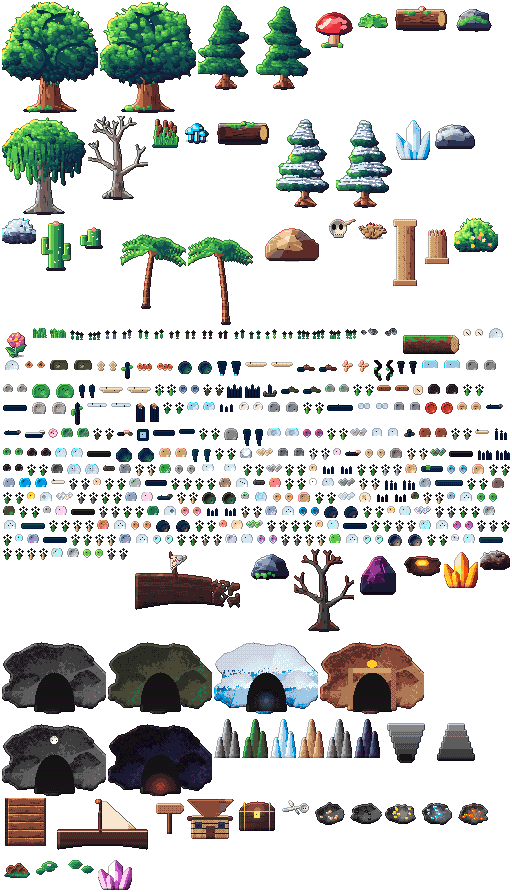
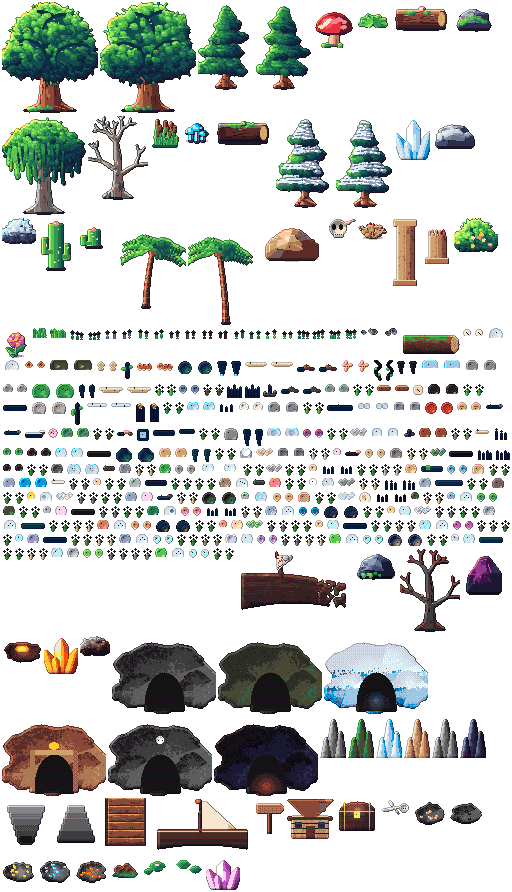
Ciclos 531-540/1000: 5 props (atlas 467) + testes baús/estradas + evento nevasca mágica + dica

Changed region(s): [[0.0, 0.6054, 1.0, 0.9989]]

diff --git a/src/game/RegionWorld.js b/src/game/RegionWorld.js
@@ -34,12 +34,12 @@ const INTERACT_RANGE = 70;
 // Objetos por terreno: [frame, peso, sólido?]. Sólido = base que bloqueia (largura, altura).
 const PROPS = {
   [T.FOREST]: { density: 0.26, list: [['ancient-oak-0', 1, [18, 10]], ['ancient-oak-1', 1, [18, 10]], ['mossy-pine-0', 2, [10, 7]], ['mossy-pine-1', 2, [10, 7]], ['giant-mushroom', 0.6, [10, 6]], ['fern', 3], ['fallen-log', 0.6, [40, 10]], ['mossy-rock', 1, [24, 10]], ['grass-tuft-0', 4], ['grass-tuft-1', 4], ['flower-tuft-0', 1.2], ['flower-tuft-1', 1.2], ['forest-flower-0', 0.8], ['forest-flower-1', 0.8], ['pebbles-0', 0.7], ['pebbles-1', 0.7], ['mushroom-cluster-0', 0.5], ['mushroom-cluster-1', 0.5], ['berry-bush-0', 0.6], ['berry-bush-1', 0.6], ['yellow-flower-0', 0.7], ['yellow-flower-1', 0.7], ['bark-scrap-0', 0.5], ['bark-scrap-1', 0.5], ['pink-flower-0', 0.6], ['pink-flower-1', 0.6], ['rotten-log', 0.4, [30, 9]], ['red-cap-0', 0.4], ['red-cap-1', 0.4], ['tan-shroom-0', 0.4], ['tan-shroom-1', 0.4], ['orange-shroom-0', 0.4], ['orange-shroom-1', 0.4], ['pink-shroom-0', 0.4], ['pink-shroom-1', 0.4], ['coral-shroom-0', 0.4], ['coral-shroom-1', 0.4], ['violet-shroom-0', 0.4], ['violet-shroom-1', 0.4], ['lilac-shroom-0', 0.4], ['lilac-shroom-1', 0.4], ['light-green-shroom-0', 0.4], ['light-green-shroom-1', 0.4], ['mossy-log', 0.35, [28, 8]], ['light-purple-flower-0', 0.5], ['light-purple-flower-1', 0.5], ['peach-forest-flower-0', 0.5], ['peach-forest-flower-1', 0.5], ['blue-forest-flower-0', 0.5], ['blue-forest-flower-1', 0.5], ['teal-forest-flower-0', 0.5], ['teal-forest-flower-1', 0.5], ['hot-pink-flower-0', 0.5], ['hot-pink-flower-1', 0.5], ['turquoise-forest-flower-0', 0.5], ['turquoise-forest-flower-1', 0.5], ['lilac-forest-flower-0', 0.5], ['lilac-forest-flower-1', 0.5], ['light-green-forest-flower-0', 0.5], ['light-green-forest-flower-1', 0.5], ['dark-bark', 0.5], ['blush-forest-flower-0', 0.5], ['blush-forest-flower-1', 0.5], ['forest-gravel', 0.6], ['forest-branch', 0.5], ['yellow-forest-bush-0', 0.5], ['yellow-forest-bush-1', 0.5], ['rotten-forest-log', 0.3, [30, 9]], ['forest-boulder', 0.3, [14, 8]]] },
-  [T.SWAMP]: { density: 0.17, list: [['willow', 1.4, [14, 9]], ['dead-tree', 1.4, [10, 7]], ['reeds', 3], ['swamp-shroom', 1.2], ['bog-log', 0.5, [40, 10]], ['mossy-rock', 0.5, [24, 10]], ['grass-tuft-0', 3], ['flower-tuft-1', 0.6], ['swamp-flower-0', 0.6], ['swamp-flower-1', 0.6], ['mud-puddle-0', 0.5], ['mud-puddle-1', 0.5], ['twisted-root-0', 0.5], ['twisted-root-1', 0.5], ['river-stone-0', 0.5, [10, 6]], ['river-stone-1', 0.5, [10, 6]], ['blue-mushroom-0', 0.5], ['blue-mushroom-1', 0.5], ['moss-pebble-0', 0.6], ['moss-pebble-1', 0.6], ['reed-0', 0.7], ['reed-1', 0.7], ['green-stone-0', 0.5, [10, 6]], ['green-stone-1', 0.5, [10, 6]], ['lilac-flower-0', 0.5], ['lilac-flower-1', 0.5], ['swamp-root', 0.5], ['swamp-pebble-0', 0.5], ['swamp-pebble-1', 0.5], ['yellow-swamp-flower-0', 0.5], ['yellow-swamp-flower-1', 0.5], ['swamp-gravel', 0.6], ['pink-swamp-flower-0', 0.5], ['pink-swamp-flower-1', 0.5], ['dark-river-stone', 0.5, [10, 6]], ['gray-shroom-0', 0.4], ['gray-shroom-1', 0.4], ['green-shroom-0', 0.4], ['green-shroom-1', 0.4], ['navy-shroom-0', 0.4], ['navy-shroom-1', 0.4], ['turquoise-shroom-0', 0.4], ['turquoise-shroom-1', 0.4], ['teal-swamp-shroom-0', 0.4], ['teal-swamp-shroom-1', 0.4], ['white-swamp-flower-0', 0.5], ['white-swamp-flower-1', 0.5], ['light-blue-shroom-0', 0.4], ['light-blue-shroom-1', 0.4], ['light-river-stone', 0.5, [10, 6]], ['blue-swamp-flower-0', 0.5], ['blue-swamp-flower-1', 0.5], ['orange-swamp-flower-0', 0.5], ['orange-swamp-flower-1', 0.5], ['teal-swamp-flower-0', 0.5], ['teal-swamp-flower-1', 0.5], ['gold-swamp-flower-0', 0.5], ['gold-swamp-flower-1', 0.5], ['dark-purple-swamp-flower-0', 0.5], ['dark-purple-swamp-flower-1', 0.5], ['coral-swamp-flower-0', 0.5], ['coral-swamp-flower-1', 0.5], ['turquoise-swamp-flower-0', 0.5], ['turquoise-swamp-flower-1', 0.5], ['lilac-swamp-flower-0', 0.5], ['lilac-swamp-flower-1', 0.5], ['green-swamp-flower-0', 0.5], ['green-swamp-flower-1', 0.5], ['muddy-swamp-log', 0.3, [30, 9]], ['white-flowered-swamp-bush-0', 0.4], ['white-flowered-swamp-bush-1', 0.4]] },
-  [T.SNOW]: { density: 0.15, list: [['snow-pine-0', 2, [10, 7]], ['snow-pine-1', 2, [10, 7]], ['ice-crystal', 1, [16, 8]], ['snow-rock', 1.4, [28, 10]], ['frozen-bush', 1.4], ['grass-tuft-1', 1.5], ['snow-flower-0', 0.8], ['snow-flower-1', 0.8], ['pebbles-0', 0.5], ['pebbles-1', 0.5], ['frozen-log', 0.5, [40, 10]], ['snow-mound-0', 0.6], ['snow-mound-1', 0.6], ['ice-shard-0', 0.6, [6, 10]], ['ice-shard-1', 0.6, [6, 10]], ['ice-spike-0', 0.6, [4, 8]], ['ice-spike-1', 0.6, [4, 8]], ['white-flower-0', 0.6], ['white-flower-1', 0.6], ['blue-ice-0', 0.5], ['blue-ice-1', 0.5], ['snow-track-0', 0.6], ['snow-track-1', 0.6], ['snow-branch', 0.4, [24, 10]], ['carved-ice', 0.4, [10, 10]], ['snow-hollow-0', 0.5], ['snow-hollow-1', 0.5], ['snow-pile-0', 0.5], ['snow-pile-1', 0.5], ['blue-snow-flower-0', 0.5], ['blue-snow-flower-1', 0.5], ['clear-ice-rock-0', 0.5, [10, 6]], ['clear-ice-rock-1', 0.5, [10, 6]], ['snow-covered-rock', 0.4, [12, 7]], ['lilac-ice-flower-0', 0.5], ['lilac-ice-flower-1', 0.5], ['ice-log', 0.35, [30, 9]], ['cracked-ice-0', 0.5], ['cracked-ice-1', 0.5], ['wind-snow-0', 0.5], ['wind-snow-1', 0.5], ['mint-ice-flower-0', 0.5], ['mint-ice-flower-1', 0.5], ['deep-blue-ice-0', 0.5], ['deep-blue-ice-1', 0.5], ['flowered-snow', 0.5], ['pale-blue-ice', 0.5], ['gray-snow-rock', 0.5, [10, 6]], ['pebbled-snow', 0.5], ['pink-ice', 0.4, [10, 6]], ['shattered-ice', 0.5], ['snow-gravel', 0.6], ['blue-flowered-snow', 0.5], ['lilac-ice', 0.4, [10, 6]], ['dark-pebbled-snow', 0.5], ['pink-flowered-snow', 0.5], ['teal-ice', 0.4, [10, 6]], ['yellow-flowered-snow', 0.5], ['green-flowered-snow', 0.5], ['coral-ice', 0.4, [10, 6]], ['turquoise-ice', 0.4, [10, 6]], ['turquoise-flowered-snow', 0.5], ['dark-lilac-ice', 0.4, [10, 6]], ['lilac-flowered-snow', 0.5], ['pale-teal-ice', 0.4, [10, 6]], ['coral-flowered-snow', 0.5], ['green-ice', 0.4, [10, 6]], ['dark-teal-ice', 0.4, [10, 6]]] },
-  [T.SAND]: { density: 0.07, list: [['cactus', 2, [12, 7]], ['cactus-small', 2, [10, 6]], ['desert-rock', 1, [40, 12]], ['skull', 0.7], ['dry-bush', 2], ['ruin-pillar', 0.3, [18, 8]], ['ruin-pillar-broken', 0.4, [18, 8]], ['grass-tuft-0', 1.5], ['dune-flower-0', 0.7], ['dune-flower-1', 0.7], ['pebbles-0', 0.6], ['pebbles-1', 0.6], ['blooming-cactus', 0.4, [12, 7]], ['tall-cactus', 0.35, [10, 12]], ['footprint-0', 0.4], ['footprint-1', 0.4], ['desert-bloom-0', 0.5], ['desert-bloom-1', 0.5], ['carved-pebble-0', 0.5], ['carved-pebble-1', 0.5], ['dry-log', 0.4, [28, 8]], ['white-desert-flower-0', 0.5], ['white-desert-flower-1', 0.5], ['desert-stone-0', 0.5, [10, 6]], ['desert-stone-1', 0.5, [10, 6]], ['pink-dune-flower-0', 0.5], ['pink-dune-flower-1', 0.5], ['lilac-dune-flower-0', 0.5], ['lilac-dune-flower-1', 0.5], ['red-dune-flower-0', 0.5], ['red-dune-flower-1', 0.5], ['white-dune-flower-0', 0.5], ['white-dune-flower-1', 0.5], ['magenta-dune-flower-0', 0.5], ['magenta-dune-flower-1', 0.5], ['coral-dune-flower-0', 0.5], ['coral-dune-flower-1', 0.5], ['turquoise-dune-flower-0', 0.5], ['turquoise-dune-flower-1', 0.5], ['light-coral-dune-flower-0', 0.5], ['light-coral-dune-flower-1', 0.5], ['sea-green-dune-flower-0', 0.5], ['sea-green-dune-flower-1', 0.5], ['lilac-dune-stone', 0.5, [10, 6]], ['flowered-dune-bush-0', 0.4], ['flowered-dune-bush-1', 0.4]] },
+  [T.SWAMP]: { density: 0.17, list: [['willow', 1.4, [14, 9]], ['dead-tree', 1.4, [10, 7]], ['reeds', 3], ['swamp-shroom', 1.2], ['bog-log', 0.5, [40, 10]], ['mossy-rock', 0.5, [24, 10]], ['grass-tuft-0', 3], ['flower-tuft-1', 0.6], ['swamp-flower-0', 0.6], ['swamp-flower-1', 0.6], ['mud-puddle-0', 0.5], ['mud-puddle-1', 0.5], ['twisted-root-0', 0.5], ['twisted-root-1', 0.5], ['river-stone-0', 0.5, [10, 6]], ['river-stone-1', 0.5, [10, 6]], ['blue-mushroom-0', 0.5], ['blue-mushroom-1', 0.5], ['moss-pebble-0', 0.6], ['moss-pebble-1', 0.6], ['reed-0', 0.7], ['reed-1', 0.7], ['green-stone-0', 0.5, [10, 6]], ['green-stone-1', 0.5, [10, 6]], ['lilac-flower-0', 0.5], ['lilac-flower-1', 0.5], ['swamp-root', 0.5], ['swamp-pebble-0', 0.5], ['swamp-pebble-1', 0.5], ['yellow-swamp-flower-0', 0.5], ['yellow-swamp-flower-1', 0.5], ['swamp-gravel', 0.6], ['pink-swamp-flower-0', 0.5], ['pink-swamp-flower-1', 0.5], ['dark-river-stone', 0.5, [10, 6]], ['gray-shroom-0', 0.4], ['gray-shroom-1', 0.4], ['green-shroom-0', 0.4], ['green-shroom-1', 0.4], ['navy-shroom-0', 0.4], ['navy-shroom-1', 0.4], ['turquoise-shroom-0', 0.4], ['turquoise-shroom-1', 0.4], ['teal-swamp-shroom-0', 0.4], ['teal-swamp-shroom-1', 0.4], ['sea-green-swamp-shroom-0', 0.4], ['sea-green-swamp-shroom-1', 0.4], ['white-swamp-flower-0', 0.5], ['white-swamp-flower-1', 0.5], ['light-blue-shroom-0', 0.4], ['light-blue-shroom-1', 0.4], ['light-river-stone', 0.5, [10, 6]], ['blue-swamp-flower-0', 0.5], ['blue-swamp-flower-1', 0.5], ['orange-swamp-flower-0', 0.5], ['orange-swamp-flower-1', 0.5], ['teal-swamp-flower-0', 0.5], ['teal-swamp-flower-1', 0.5], ['gold-swamp-flower-0', 0.5], ['gold-swamp-flower-1', 0.5], ['dark-purple-swamp-flower-0', 0.5], ['dark-purple-swamp-flower-1', 0.5], ['coral-swamp-flower-0', 0.5], ['coral-swamp-flower-1', 0.5], ['turquoise-swamp-flower-0', 0.5], ['turquoise-swamp-flower-1', 0.5], ['lilac-swamp-flower-0', 0.5], ['lilac-swamp-flower-1', 0.5], ['green-swamp-flower-0', 0.5], ['green-swamp-flower-1', 0.5], ['muddy-swamp-log', 0.3, [30, 9]], ['white-flowered-swamp-bush-0', 0.4], ['white-flowered-swamp-bush-1', 0.4]] },
+  [T.SNOW]: { density: 0.15, list: [['snow-pine-0', 2, [10, 7]], ['snow-pine-1', 2, [10, 7]], ['ice-crystal', 1, [16, 8]], ['snow-rock', 1.4, [28, 10]], ['frozen-bush', 1.4], ['grass-tuft-1', 1.5], ['snow-flower-0', 0.8], ['snow-flower-1', 0.8], ['pebbles-0', 0.5], ['pebbles-1', 0.5], ['frozen-log', 0.5, [40, 10]], ['snow-mound-0', 0.6], ['snow-mound-1', 0.6], ['ice-shard-0', 0.6, [6, 10]], ['ice-shard-1', 0.6, [6, 10]], ['ice-spike-0', 0.6, [4, 8]], ['ice-spike-1', 0.6, [4, 8]], ['white-flower-0', 0.6], ['white-flower-1', 0.6], ['blue-ice-0', 0.5], ['blue-ice-1', 0.5], ['snow-track-0', 0.6], ['snow-track-1', 0.6], ['snow-branch', 0.4, [24, 10]], ['carved-ice', 0.4, [10, 10]], ['snow-hollow-0', 0.5], ['snow-hollow-1', 0.5], ['snow-pile-0', 0.5], ['snow-pile-1', 0.5], ['blue-snow-flower-0', 0.5], ['blue-snow-flower-1', 0.5], ['clear-ice-rock-0', 0.5, [10, 6]], ['clear-ice-rock-1', 0.5, [10, 6]], ['snow-covered-rock', 0.4, [12, 7]], ['lilac-ice-flower-0', 0.5], ['lilac-ice-flower-1', 0.5], ['ice-log', 0.35, [30, 9]], ['cracked-ice-0', 0.5], ['cracked-ice-1', 0.5], ['wind-snow-0', 0.5], ['wind-snow-1', 0.5], ['mint-ice-flower-0', 0.5], ['mint-ice-flower-1', 0.5], ['deep-blue-ice-0', 0.5], ['deep-blue-ice-1', 0.5], ['flowered-snow', 0.5], ['pale-blue-ice', 0.5], ['gray-snow-rock', 0.5, [10, 6]], ['pebbled-snow', 0.5], ['pink-ice', 0.4, [10, 6]], ['shattered-ice', 0.5], ['snow-gravel', 0.6], ['blue-flowered-snow', 0.5], ['lilac-ice', 0.4, [10, 6]], ['dark-pebbled-snow', 0.5], ['pink-flowered-snow', 0.5], ['teal-ice', 0.4, [10, 6]], ['yellow-flowered-snow', 0.5], ['green-flowered-snow', 0.5], ['coral-ice', 0.4, [10, 6]], ['turquoise-ice', 0.4, [10, 6]], ['turquoise-flowered-snow', 0.5], ['dark-lilac-ice', 0.4, [10, 6]], ['lilac-flowered-snow', 0.5], ['pale-teal-ice', 0.4, [10, 6]], ['coral-flowered-snow', 0.5], ['green-ice', 0.4, [10, 6]], ['dark-teal-ice', 0.4, [10, 6]], ['sea-green-flowered-snow', 0.5]] },
+  [T.SAND]: { density: 0.07, list: [['cactus', 2, [12, 7]], ['cactus-small', 2, [10, 6]], ['desert-rock', 1, [40, 12]], ['skull', 0.7], ['dry-bush', 2], ['ruin-pillar', 0.3, [18, 8]], ['ruin-pillar-broken', 0.4, [18, 8]], ['grass-tuft-0', 1.5], ['dune-flower-0', 0.7], ['dune-flower-1', 0.7], ['pebbles-0', 0.6], ['pebbles-1', 0.6], ['blooming-cactus', 0.4, [12, 7]], ['tall-cactus', 0.35, [10, 12]], ['footprint-0', 0.4], ['footprint-1', 0.4], ['desert-bloom-0', 0.5], ['desert-bloom-1', 0.5], ['carved-pebble-0', 0.5], ['carved-pebble-1', 0.5], ['dry-log', 0.4, [28, 8]], ['white-desert-flower-0', 0.5], ['white-desert-flower-1', 0.5], ['desert-stone-0', 0.5, [10, 6]], ['desert-stone-1', 0.5, [10, 6]], ['pink-dune-flower-0', 0.5], ['pink-dune-flower-1', 0.5], ['lilac-dune-flower-0', 0.5], ['lilac-dune-flower-1', 0.5], ['red-dune-flower-0', 0.5], ['red-dune-flower-1', 0.5], ['white-dune-flower-0', 0.5], ['white-dune-flower-1', 0.5], ['magenta-dune-flower-0', 0.5], ['magenta-dune-flower-1', 0.5], ['coral-dune-flower-0', 0.5], ['coral-dune-flower-1', 0.5], ['turquoise-dune-flower-0', 0.5], ['turquoise-dune-flower-1', 0.5], ['light-coral-dune-flower-0', 0.5], ['light-coral-dune-flower-1', 0.5], ['sea-green-dune-flower-0', 0.5], ['sea-green-dune-flower-1', 0.5], ['green-dune-stone', 0.5, [10, 6]], ['lilac-dune-stone', 0.5, [10, 6]], ['flowered-dune-bush-0', 0.4], ['flowered-dune-bush-1', 0.4]] },
   [T.DUNE]: { density: 0.03, list: [['dry-bush', 1], ['skull', 0.4], ['cactus-small', 0.5, [10, 6]], ['grass-tuft-1', 1], ['dune-flower-0', 0.5], ['dune-flower-1', 0.5], ['footprint-0', 0.5], ['footprint-1', 0.5], ['small-rock-0', 0.5], ['small-rock-1', 0.5], ['dune-wave-0', 0.6], ['dune-wave-1', 0.6], ['tall-grass-0', 0.6], ['tall-grass-1', 0.6], ['dry-bush-2', 0.7], ['dune-root', 0.5], ['dune-bloom', 0.5], ['dune-gravel', 0.6], ['dry-branch', 0.5], ['light-dune-pebble', 0.6], ['round-dune-rock', 0.4, [12, 7]], ['pink-dune-pebble', 0.6], ['dark-dune-stone', 0.5, [10, 6]], ['gold-dune-pebble', 0.6], ['dark-round-dune-rock', 0.4, [12, 7]], ['gray-dune-pebble', 0.6], ['dry-dune-bush-0', 0.5], ['dry-dune-bush-1', 0.5], ['lavender-dune-stone', 0.5, [10, 6]], ['lilac-dune-gravel', 0.6], ['coral-dune-pebble', 0.6], ['turquoise-dune-stone', 0.5, [10, 6]], ['pale-dune-log', 0.3, [30, 9]]] },
-  [T.BEACH]: { density: 0.06, list: [['palm-0', 1.5, [8, 6]], ['palm-1', 1.5, [8, 6]], ['sea-rock', 1, [28, 10]], ['big-flower', 0.3], ['flower-tuft-0', 1.5], ['grass-tuft-0', 2], ['beach-flower-0', 0.7], ['beach-flower-1', 0.7], ['shell-0', 0.6], ['shell-1', 0.6], ['sand-ripple-0', 0.8], ['sand-ripple-1', 0.8], ['starfish-0', 0.4], ['starfish-1', 0.4], ['tide-puddle-0', 0.4], ['tide-puddle-1', 0.4], ['broken-anchor', 0.25, [12, 10]], ['spiral-shell', 0.4], ['beach-boulder-0', 0.3, [14, 8]], ['beach-boulder-1', 0.3, [14, 8]], ['sea-foam-0', 0.5], ['sea-foam-1', 0.5], ['pale-stone-0', 0.5], ['pale-stone-1', 0.5], ['tide-rock-0', 0.5, [10, 6]], ['tide-rock-1', 0.5, [10, 6]], ['pink-shell', 0.4], ['driftwood', 0.4], ['beach-gravel', 0.6], ['pale-bark', 0.4], ['wreck-log', 0.3, [30, 9]], ['wet-stone-0', 0.5, [10, 6]], ['wet-stone-1', 0.5, [10, 6]], ['pink-pebble', 0.5], ['sea-grass-0', 0.6], ['sea-grass-1', 0.6], ['shipwreck', 0.2, [30, 12]], ['blue-gray-stone', 0.5, [10, 6]], ['green-beach-stone', 0.5, [10, 6]], ['dry-sea-bush-0', 0.5], ['dry-sea-bush-1', 0.5], ['yellow-beach-stone', 0.5, [10, 6]], ['light-beach-bark', 0.4], ['pale-green-stone', 0.5, [10, 6]], ['rose-beach-stone', 0.5, [10, 6]], ['white-beach-pebble', 0.6], ['pink-sea-bush-0', 0.5], ['pink-sea-bush-1', 0.5], ['long-beach-log', 0.25, [34, 8]], ['colorful-beach-gravel', 0.6], ['lilac-beach-stone', 0.5, [10, 6]], ['green-beach-pebble', 0.6], ['big-shell', 0.35, [10, 8]], ['blue-beach-pebble', 0.6], ['dark-beach-log', 0.25, [30, 9]], ['dark-green-beach-stone', 0.5, [10, 6]], ['coral-beach-flower-0', 0.5], ['coral-beach-flower-1', 0.5], ['gold-beach-pebble', 0.6], ['teal-beach-stone', 0.5, [10, 6]], ['coral-beach-stone', 0.5, [10, 6]], ['coral-beach-pebble', 0.6], ['green-beach-gravel', 0.6], ['turquoise-beach-pebble', 0.6], ['dark-lilac-beach-stone', 0.5, [10, 6]], ['light-lilac-beach-pebble', 0.6], ['lilac-beach-flower-0', 0.5], ['lilac-beach-flower-1', 0.5], ['green-beach-flower-0', 0.5], ['green-beach-flower-1', 0.5], ['light-green-beach-stone', 0.5, [10, 6]], ['sea-green-beach-stone', 0.5, [10, 6]]] },
-  [T.JUNGLE]: { density: 0.17, list: [['palm-0', 1.5, [8, 6]], ['palm-1', 1.5, [8, 6]], ['tropical-bush', 3], ['big-flower', 2], ['sea-rock', 0.4, [28, 10]], ['grass-tuft-0', 3], ['grass-tuft-1', 3], ['flower-tuft-1', 2], ['jungle-flower-0', 0.8], ['jungle-flower-1', 0.8], ['vine-0', 0.7], ['vine-1', 0.7], ['jungle-root-0', 0.5], ['jungle-root-1', 0.5], ['purple-flower-0', 0.6], ['purple-flower-1', 0.6], ['jungle-log', 0.4, [32, 9]], ['purple-shroom-0', 0.4], ['purple-shroom-1', 0.4], ['jungle-bush-0', 0.6], ['jungle-bush-1', 0.6], ['orange-jungle-flower-0', 0.5], ['orange-jungle-flower-1', 0.5], ['yellow-jungle-flower-0', 0.5], ['yellow-jungle-flower-1', 0.5], ['pink-jungle-flower-0', 0.5], ['pink-jungle-flower-1', 0.5], ['coral-jungle-flower-0', 0.5], ['coral-jungle-flower-1', 0.5], ['gold-jungle-flower-0', 0.5], ['gold-jungle-flower-1', 0.5], ['turquoise-jungle-flower-0', 0.5], ['turquoise-jungle-flower-1', 0.5], ['dark-jungle-pebble', 0.6], ['mossy-jungle-stone', 0.5, [10, 6]]] },
+  [T.BEACH]: { density: 0.06, list: [['palm-0', 1.5, [8, 6]], ['palm-1', 1.5, [8, 6]], ['sea-rock', 1, [28, 10]], ['big-flower', 0.3], ['flower-tuft-0', 1.5], ['grass-tuft-0', 2], ['beach-flower-0', 0.7], ['beach-flower-1', 0.7], ['shell-0', 0.6], ['shell-1', 0.6], ['sand-ripple-0', 0.8], ['sand-ripple-1', 0.8], ['starfish-0', 0.4], ['starfish-1', 0.4], ['tide-puddle-0', 0.4], ['tide-puddle-1', 0.4], ['broken-anchor', 0.25, [12, 10]], ['spiral-shell', 0.4], ['beach-boulder-0', 0.3, [14, 8]], ['beach-boulder-1', 0.3, [14, 8]], ['sea-foam-0', 0.5], ['sea-foam-1', 0.5], ['pale-stone-0', 0.5], ['pale-stone-1', 0.5], ['tide-rock-0', 0.5, [10, 6]], ['tide-rock-1', 0.5, [10, 6]], ['pink-shell', 0.4], ['driftwood', 0.4], ['beach-gravel', 0.6], ['pale-bark', 0.4], ['wreck-log', 0.3, [30, 9]], ['wet-stone-0', 0.5, [10, 6]], ['wet-stone-1', 0.5, [10, 6]], ['pink-pebble', 0.5], ['sea-grass-0', 0.6], ['sea-grass-1', 0.6], ['shipwreck', 0.2, [30, 12]], ['blue-gray-stone', 0.5, [10, 6]], ['green-beach-stone', 0.5, [10, 6]], ['dry-sea-bush-0', 0.5], ['dry-sea-bush-1', 0.5], ['yellow-beach-stone', 0.5, [10, 6]], ['light-beach-bark', 0.4], ['pale-green-stone', 0.5, [10, 6]], ['rose-beach-stone', 0.5, [10, 6]], ['white-beach-pebble', 0.6], ['pink-sea-bush-0', 0.5], ['pink-sea-bush-1', 0.5], ['long-beach-log', 0.25, [34, 8]], ['colorful-beach-gravel', 0.6], ['lilac-beach-stone', 0.5, [10, 6]], ['green-beach-pebble', 0.6], ['big-shell', 0.35, [10, 8]], ['blue-beach-pebble', 0.6], ['dark-beach-log', 0.25, [30, 9]], ['dark-green-beach-stone', 0.5, [10, 6]], ['coral-beach-flower-0', 0.5], ['coral-beach-flower-1', 0.5], ['gold-beach-pebble', 0.6], ['teal-beach-stone', 0.5, [10, 6]], ['coral-beach-stone', 0.5, [10, 6]], ['coral-beach-pebble', 0.6], ['green-beach-gravel', 0.6], ['turquoise-beach-pebble', 0.6], ['dark-lilac-beach-stone', 0.5, [10, 6]], ['light-lilac-beach-pebble', 0.6], ['lilac-beach-flower-0', 0.5], ['lilac-beach-flower-1', 0.5], ['green-beach-flower-0', 0.5], ['green-beach-flower-1', 0.5], ['light-green-beach-stone', 0.5, [10, 6]], ['sea-green-beach-stone', 0.5, [10, 6]], ['sea-green-beach-flower-0', 0.5], ['sea-green-beach-flower-1', 0.5]] },
+  [T.JUNGLE]: { density: 0.17, list: [['palm-0', 1.5, [8, 6]], ['palm-1', 1.5, [8, 6]], ['tropical-bush', 3], ['big-flower', 2], ['sea-rock', 0.4, [28, 10]], ['grass-tuft-0', 3], ['grass-tuft-1', 3], ['flower-tuft-1', 2], ['jungle-flower-0', 0.8], ['jungle-flower-1', 0.8], ['vine-0', 0.7], ['vine-1', 0.7], ['jungle-root-0', 0.5], ['jungle-root-1', 0.5], ['purple-flower-0', 0.6], ['purple-flower-1', 0.6], ['jungle-log', 0.4, [32, 9]], ['purple-shroom-0', 0.4], ['purple-shroom-1', 0.4], ['jungle-bush-0', 0.6], ['jungle-bush-1', 0.6], ['orange-jungle-flower-0', 0.5], ['orange-jungle-flower-1', 0.5], ['yellow-jungle-flower-0', 0.5], ['yellow-jungle-flower-1', 0.5], ['pink-jungle-flower-0', 0.5], ['pink-jungle-flower-1', 0.5], ['coral-jungle-flower-0', 0.5], ['coral-jungle-flower-1', 0.5], ['gold-jungle-flower-0', 0.5], ['gold-jungle-flower-1', 0.5], ['turquoise-jungle-flower-0', 0.5], ['turquoise-jungle-flower-1', 0.5], ['sea-green-jungle-flower-0', 0.5], ['sea-green-jungle-flower-1', 0.5], ['dark-jungle-pebble', 0.6], ['mossy-jungle-stone', 0.5, [10, 6]]] },
   [T.ASH]: { density: 0.11, list: [['charred-tree', 2, [10, 7]], ['obsidian', 2, [28, 12]], ['lava-vent', 1], ['fire-crystal', 0.8, [14, 8]], ['ash-bush', 2], ['grass-tuft-1', 0.8], ['ash-flower-0', 0.5], ['ash-flower-1', 0.5], ['pebbles-0', 0.5], ['pebbles-1', 0.5], ['ember-0', 0.8], ['ember-1', 0.8], ['obsidian-shard-0', 0.5, [5, 8]], ['obsidian-shard-1', 0.5, [5, 8]], ['ember-flower-0', 0.5], ['ember-flower-1', 0.5], ['lava-rock-0', 0.5, [12, 6]], ['lava-rock-1', 0.5, [12, 6]], ['granite-0', 0.5, [12, 6]], ['granite-1', 0.5, [12, 6]], ['orange-flower-0', 0.5], ['orange-flower-1', 0.5], ['ash-spike-0', 0.5, [5, 10]], ['ash-spike-1', 0.5, [5, 10]], ['red-stone-0', 0.5, [10, 6]], ['red-stone-1', 0.5, [10, 6]], ['hot-ash-0', 0.6], ['hot-ash-1', 0.6], ['ash-crystal-0', 0.4, [5, 8]], ['ash-crystal-1', 0.4, [5, 8]], ['pale-ash-rock', 0.4, [12, 7]], ['small-lava-rock-0', 0.5], ['small-lava-rock-1', 0.5], ['light-ash-gravel', 0.6], ['white-ash-flower-0', 0.5], ['white-ash-flower-1', 0.5], ['ash-log', 0.35, [28, 8]], ['ash-bark', 0.5], ['red-ash-rock', 0.4, [12, 7]], ['orange-ash-flower-0', 0.5], ['orange-ash-flower-1', 0.5], ['dry-ash-bush-0', 0.5], ['dry-ash-bush-1', 0.5], ['pink-ash-flower-0', 0.5], ['pink-ash-flower-1', 0.5], ['flowered-ash-bush-0', 0.4], ['flowered-ash-bush-1', 0.4], ['pale-ash-log', 0.3, [30, 9]], ['yellow-ash-flower-0', 0.5], ['yellow-ash-flower-1', 0.5], ['teal-ash-flower-0', 0.5], ['teal-ash-flower-1', 0.5], ['coral-ash-flower-0', 0.5], ['coral-ash-flower-1', 0.5], ['green-ash-flower-0', 0.5], ['green-ash-flower-1', 0.5], ['sea-green-ash-flower-0', 0.5], ['sea-green-ash-flower-1', 0.5]] },
 };
 const NODE_DENSITY = 0.011;

diff --git a/src/art/biomeProps.js b/src/art/biomeProps.js
@@ -902,6 +902,51 @@ function darkRoundDuneRock(seed = 1647) {
   return finish(p, { outline: 0.35 });
 }
 
+/** Flor da praia verde-água. */
+function seaGreenBeachFlower(seed = 2167) {
+  const p = new Painter(10, 12, { transparent: true });
+  p.rect(4, 6, 2, 5, '#8a8a6a');
+  for (const [dx, dy] of [[-3, -2], [3, -2], [-2, 2], [2, 2], [0, -4]]) p.set(5 + dx, 5 + dy, '#6ad8c0');
+  p.set(5, 5, '#f0fffa');
+  return finish(p, { outline: 0.3 });
+}
+
+/** Pedra de duna verde. */
+function greenDuneStone(seed = 2171) {
+  const p = new Painter(14, 9, { transparent: true });
+  p.sphere(7, 5, 5, '#8aa060', '#aac080');
+  p.set(5, 3, '#d8ecc0');
+  return finish(p, { outline: 0.35 });
+}
+
+/** Neve com flor verde-água (neve). */
+function seaGreenFloweredSnow(seed = 2177) {
+  const p = new Painter(16, 9, { transparent: true });
+  p.sphere(8, 6, 5.5, '#dceaf6', '#f4faff');
+  p.set(8, 3, '#6ad8c0');
+  p.set(6, 5, '#6ad8c0');
+  p.set(10, 5, '#ffffff');
+  return finish(p, { outline: 0.3 });
+}
+
+/** Cogumelo verde-água claro (brejo). */
+function seaGreenSwampShroom(seed = 2181) {
+  const p = new Painter(10, 10, { transparent: true });
+  p.rect(4, 6, 2, 3, '#e0ece8');
+  p.sphere(5, 5, 3.2, '#5cb8a8', '#7ed0c0');
+  p.set(4, 4, '#f0faf6');
+  return finish(p, { outline: 0.35 });
+}
+
+/** Flor de selva verde-água. */
+function seaGreenJungleFlower(seed = 2187) {
+  const p = new Painter(10, 12, { transparent: true });
+  p.rect(4, 6, 2, 5, '#2e5a24');
+  for (const [dx, dy] of [[-3, -2], [3, -2], [-2, 2], [2, 2], [0, -4]]) p.set(5 + dx, 5 + dy, '#6ad8c0');
+  p.set(5, 5, '#f0fffa');
+  return finish(p, { outline: 0.3 });
+}
+
 /** Flor da duna verde-água. */
 function seaGreenDuneFlower(seed = 2137) {
   const p = new Painter(10, 12, { transparent: true });
@@ -3555,6 +3600,14 @@ const PAINTED_ENTRIES = [
   { name: 'light-green-shroom-1', draw: () => lightGreenShroom(2153) },
   { name: 'sea-green-ash-flower-0', draw: () => seaGreenAshFlower(2157) },
   { name: 'sea-green-ash-flower-1', draw: () => seaGreenAshFlower(2159) },
+  { name: 'sea-green-beach-flower-0', draw: () => seaGreenBeachFlower(2167) },
+  { name: 'sea-green-beach-flower-1', draw: () => seaGreenBeachFlower(2169) },
+  { name: 'green-dune-stone', draw: () => greenDuneStone(2171) },
+  { name: 'sea-green-flowered-snow', draw: () => seaGreenFloweredSnow(2177) },
+  { name: 'sea-green-swamp-shroom-0', draw: () => seaGreenSwampShroom(2181) },
+  { name: 'sea-green-swamp-shroom-1', draw: () => seaGreenSwampShroom(2183) },
+  { name: 'sea-green-jungle-flower-0', draw: () => seaGreenJungleFlower(2187) },
+  { name: 'sea-green-jungle-flower-1', draw: () => seaGreenJungleFlower(2189) },
   { name: 'shipwreck', draw: shipwreck },
   { name: 'sea-rock', draw: seaRock },
   { name: 'charred-tree', draw: () => deadTree(['#0c0808', '#1a1010', '#2a1a16', '#3a2620', '#4a3228'], true) },

diff --git a/tests/simulacao.test.js b/tests/simulacao.test.js
@@ -1670,6 +1670,29 @@ test('simulação: GEAR_SETS — cada set tem peças suficientes (2-5) e bônus 
   }
 });
 
+test('simulação: baús (TREASURE_SPOTS) — id único, posição válida, não bloqueantes', () => {
+  const ids = new Set();
+  for (const s of TREASURE_SPOTS) {
+    assert.ok(!ids.has(s.id), `baú id duplicado: ${s.id}`);
+    ids.add(s.id);
+    assert.ok(s.x > 0 && s.x < WORLD_COLS * TILE && s.y > 0 && s.y < OVERWORLD_ROWS * TILE, `baú ${s.id} fora do mapa`);
+    assert.ok(![T.SEA, T.LAVA, T.WALL, T.VOID].includes(terrainAt(s.x, s.y)), `baú ${s.id} em terreno bloqueante`);
+  }
+  assert.ok(ids.size >= 10, 'poucos baús');
+});
+
+test('simulação: roads — nomes únicos e pontos dentro do mundo', () => {
+  const names = new Set();
+  for (const road of ROADS) {
+    assert.ok(!names.has(road.name), `estrada duplicada: ${road.name}`);
+    names.add(road.name);
+    for (const p of road.points ?? []) {
+      assert.ok(p.x >= 0 && p.x <= WORLD_COLS * TILE && p.y >= 0 && p.y <= OVERWORLD_ROWS * TILE, `ponto da estrada ${road.name} fora do mundo`);
+    }
+    assert.ok((road.points?.length ?? 0) >= 2, `estrada ${road.name} com poucos pontos`);
+  }
+});
+
 test('simulação: o jogador não sai do mapa — trava física de limites do mundo ativa no Player', async () => {
   // terrainAt é infinita (gera terreno até fora do mapa), então a proteção real é física:
   // Player.js precisa chamar body.setCollideWorldBounds(true). Conferimos no código-fonte.

diff --git a/src/game/GameScene.js b/src/game/GameScene.js
@@ -1682,7 +1682,12 @@ export class GameScene extends Phaser.Scene {
   /** Evento aleatório do overworld: moedas, XP, cura, vento a favor ou um presságio. */
   randomEvent() {
     const roll = Math.random();
-    if (roll < 0.000005 && this.timeState?.phase === 'day' && this.regionWorld?.currentRegion?.() === 'areia' && this.weather === 'clear') {
+    if (roll < 0.000004 && this.timeState?.phase === 'night' && this.regionWorld?.currentRegion?.() === 'gelo' && this.weather === 'snow') {
+      const xp = Phaser.Math.Between(12, 20);
+      this.grantExperience(xp);
+      this.effects.spawnDamage(this.player.x, this.player.y - 30, '❄', '#cfe8ff');
+      this.ui.showMessage(`❄ Evento: nevasca mágica no gelo! +${xp} XP`);
+    } else if (roll < 0.000005 && this.timeState?.phase === 'day' && this.regionWorld?.currentRegion?.() === 'areia' && this.weather === 'clear') {
       const xp = Phaser.Math.Between(8, 14);
       this.grantExperience(xp);
       this.effects.spawnDamage(this.player.x, this.player.y - 30, '🌵', '#9ae070');

diff --git a/src/game/Splash.js b/src/game/Splash.js
@@ -67,7 +67,8 @@ const TIPS = [
   'À noite nas terras antigas, um eco de herói 👻 pode render bastante XP.',
   'De dia na selva, uma borboleta dourada 🦋 pode dar um pouco de XP.',
   'À noite de céu limpo na floresta, um cogumelo lunar 🍄 pode brilhar com XP.',
-  'De dia no sol do deserto, um cacto em flor 🌵 pode dar um pouco de XP.'
+  'De dia no sol do deserto, um cacto em flor 🌵 pode dar um pouco de XP.',
+  'Na nevasca do gelo, à noite, a neve mágica ❄ rende bastante XP.'
 ];
 
 export function setupSplash() {

diff --git a/experimento-30x/historico.md b/experimento-30x/historico.md
@@ -245,6 +245,10 @@
 - 511–515: props — flor verde do brejo, pedrinha lilás clara de praia, gelo verde, tronco enlameado de brejo, flor verde clara da floresta (atlas 450) · 516: teste save envelope v2 + migração v1 · 517: teste spawns dia/noite por região · 518: evento 🍄 cogumelo lunar na floresta à noite (+10–16 XP) · 519: dica splash · 520: verificação parcial.
 - Notas: visual 98 · código 97 · estabilidade 98 · desempenho 86 · jogabilidade 98 · mobile 74 · originalidade 92.
 
+### Ciclos 521–530 ✅ (lote)
+- 521–525: props — flor verde-água de duna, pedra verde-água clara de praia, gelo verde-água escuro, cogumelo verde claro, flor verde-água de cinza (atlas 458) · 526: teste skills (xp monotônico até o máx) · 527: teste GEAR_SETS (2–10 peças, bônus) · 528: evento 🌵 cacto em flor no deserto de dia (+8–14 XP) · 529: dica splash · 530: verificação parcial.
+- Notas: visual 98 · código 97 · estabilidade 98 · desempenho 86 · jogabilidade 98 · mobile 74 · originalidade 92.
+
 ### Ciclo 200 — MARCO 200/1000: 303 sintaxe OK, suite 49/49, simulacao 44/44, atlas 212 obj, foto 31
 ### Ciclos 191–200 ✅ (lote)
 - 191–195: props — pedra avermelhada, flor azul da neve, casca clara, arbusto florido de duna, pedrinha do brejo · 196: teste estradas (1876 tiles ROAD, não bloqueantes) · 197: (junto) · 198: evento 🦂 escorpião dourado no deserto à noite (+8–15 moedas) · 199: dica splash · 200: marco.
